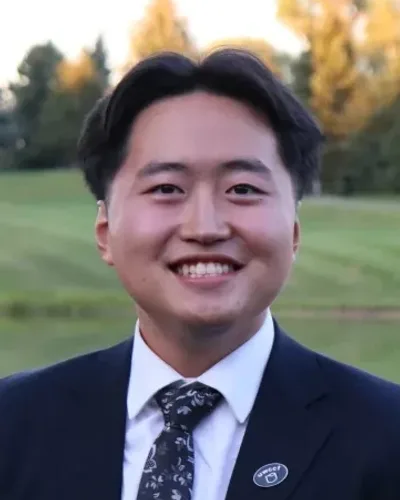
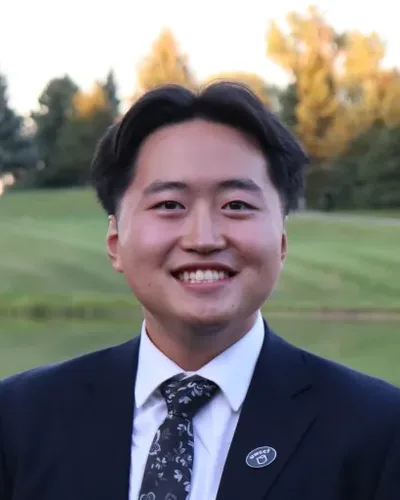
polish website

diff --git a/src/content/projects.ts b/src/content/projects.ts
@@ -1,37 +1,49 @@
 type Project = {
     name: string;
+    // A short phrase for the page description, like "a Lethal Company mod".
+    label: string;
     status?: string;
     description: string;
     technologies: string;
     href: string;
+    thunderstoreHref?: string;
+    // srcInLightTheme replaces src while the site is in light mode.
+    image: { src: string; alt: string; srcInLightTheme?: string };
 };
 
-export const projectsIntroduction = "Some things I’ve built.";
+export const projectsIntroduction = "What I’ve built.";
+
+// Search results cut descriptions off around 155 characters, so only the first three projects are named.
+export function projectsDescription(list: { label: string }[]): string {
+    const labels = list.slice(0, 3).map((project) => project.label);
+    const joined = labels.length < 3 ? labels.join(" and ") : `${labels.slice(0, -1).join(", ")}, and ${labels.at(-1)}`;
+    return `What I’ve built: ${joined}.`;
+}
 
 export const projects: Project[] = [
     {
         name: "LLM Inference Optimization Lab",
-        description: "I built a GPU model-serving setup and an asynchronous benchmarking framework to study how serving decisions affect latency and throughput. I experiment with concurrency, scheduling token budgets, and prefix-cache reuse, and read the results through server metrics and GPU profiling.",
-        technologies: "Python, vLLM, Modal, PyTorch Profiler, Prometheus",
+        label: "LLM inference benchmarks",
+        description: "I built a GPU model-serving setup and an asynchronous benchmarking framework to study how configuration choices affect latency and throughput. I experiment with concurrency, token budgets, and KV cache reuse, and analyze the results with server metrics and GPU profiling.",
+        technologies: "Python, vLLM, Modal, Prometheus, PyTorch Profiler",
         href: "https://github.com/malcolmshi123/llm-inference-optimization-lab",
-    },
-    {
-        name: "TFTeacher",
-        status: "in progress",
-        description: "I’m building a web app that reviews finished Teamfight Tactics games round by round. It finds the few decisions that cost you placements, like a loss streak held too long or gold you never spent, and points each one to the round it came from.",
-        technologies: "TypeScript, Next.js, Tailwind CSS, Claude API",
-        href: "https://github.com/malcolmshi123/tfteacher",
+        image: { src: "/projects/llm-inference-optimization-lab.webp", alt: "System architecture diagram: a Python benchmark client streams requests from a vLLM server on Modal GPUs, and the results and Prometheus metrics feed offline analysis" },
     },
     {
         name: "GojoBracken",
-        description: "I made a cosmetic mod for Lethal Company that replaces the Bracken with Gojo Satoru. When the Bracken turns aggressive, Gojo plays a Japanese voice line over looping music, and as it gets angrier, the music gets louder and his aura grows stronger.",
+        label: "a Lethal Company mod",
+        description: "I made a cosmetic mod for Lethal Company that replaces the Bracken with Gojo Satoru. When the Bracken enters aggro, Gojo plays a Japanese voice line over looping music. As the Bracken gets angrier, the music gets louder and Gojo’s aura grows stronger.",
         technologies: "C#, Unity, Blender",
         href: "https://github.com/malcolmshi123/GojoBracken",
+        thunderstoreHref: "https://thunderstore.io/c/lethal-company/p/FreakyFriday/GojoBracken",
+        image: { src: "/projects/gojobracken.webp", alt: "Gojo standing in the Lethal Company ship, surrounded by a blue aura" },
     },
     {
         name: "Personal Website",
-        description: "I designed and built this site to bring my faith, engineering work, writing, and photos together in one place. It’s a static Next.js site with light and dark themes and a homepage that fits on one screen.",
-        technologies: "TypeScript, Next.js, Formspree",
+        label: "this site",
+        description: "I designed and built this site to bring my faith, work, writing, and photos together in one place. It’s a static Next.js site on Vercel that pulls my latest Medium posts every day and sends messages through Formspree.",
+        technologies: "TypeScript, Next.js, Vercel, Formspree",
         href: "https://github.com/malcolmshi123/personal-website",
+        image: { src: "/projects/personal-website.webp", srcInLightTheme: "/projects/personal-website-dark.webp", alt: "The landing page of this website" },
     },
 ];

diff --git a/src/app/projects/page.tsx b/src/app/projects/page.tsx
@@ -1,11 +1,19 @@
 import { createPageMetadata } from "@/lib/site-metadata";
-import { projects, projectsIntroduction } from "@/content/projects";
+import LinkIcon from "@/components/link-icon";
+import ThemeToggle from "@/components/theme-toggle";
+import { projects, projectsDescription, projectsIntroduction } from "@/content/projects";
 
 export const metadata = createPageMetadata(
     "Projects",
-    "Things I’ve built: LLM inference benchmarks, a Teamfight Tactics review app, a Lethal Company mod, and this site.",
+    projectsDescription(projects),
     "/projects/",
 );
+
+type ProjectImageProps = { className: string; src: string; alt: string; loading: "lazy" | "eager" };
+
+function ProjectImage({ className, src, alt, loading }: ProjectImageProps) {
+    return <img className={className} src={src} alt={alt} width={1280} height={720} loading={loading} decoding="async" />;
+}
 
 export default function Projects() {
     return (
@@ -16,13 +24,43 @@ export default function Projects() {
                 <ul className="work-list project-list">
                     {projects.map((project) => (
                         <li className="work-entry" key={project.href}>
-                            <h2 className="project-name">
-                                {project.name}
-                                {project.status && <span className="project-status">{project.status}</span>}
-                            </h2>
+                            <div className="project-heading">
+                                <h2 className="project-name">
+                                    {project.name}
+                                    {project.status && <span className="project-status">{project.status}</span>}
+                                </h2>
+                                {/* Lets visitors flip the theme right here and watch the screenshot change. */}
+                                {project.image.srcInLightTheme && <ThemeToggle hint={false} />}
+                            </div>
+                            {project.image.srcInLightTheme && (
+                                <ProjectImage
+                                    className="project-image shows-in-light-theme"
+                                    src={project.image.srcInLightTheme}
+                                    alt={project.image.alt}
+                                    loading="eager"
+                                />
+                            )}
+                            {/* A themed pair loads up front so switching themes never shows an empty frame. */}
+                            <ProjectImage
+                                className={project.image.srcInLightTheme ? "project-image shows-in-dark-theme" : "project-image"}
+                                src={project.image.src}
+                                alt={project.image.alt}
+                                loading={project.image.srcInLightTheme ? "eager" : "lazy"}
+                            />
                             <p>{project.description}</p>
                             <p className="work-meta">{project.technologies}</p>
-                            <a href={project.href} aria-label={`View ${project.name} on GitHub`}>View on GitHub</a>
+                            <div className="project-links">
+                                {project.thunderstoreHref && (
+                                    <a href={project.thunderstoreHref} aria-label={`${project.name} on Thunderstore`}>
+                                        <LinkIcon name="thunderstore" />
+                                        Thunderstore
+                                    </a>
+                                )}
+                                <a href={project.href} aria-label={`${project.name} on GitHub`}>
+                                    <LinkIcon name="github" />
+                                    GitHub
+                                </a>
+                            </div>
                         </li>
                     ))}
                 </ul>

diff --git a/src/components/theme-toggle.tsx b/src/components/theme-toggle.tsx
@@ -1,6 +1,6 @@
 "use client";
 
-import { useEffect, useState } from "react";
+import { useEffect, useId, useState } from "react";
 import { nextTheme, readStoredTheme, saveThemeChoice, shouldFollowSystem, syncFaviconLinks, type Theme } from "@/lib/theme";
 
 const darkQuery = "(prefers-color-scheme: dark)";
@@ -29,8 +29,21 @@ function currentTheme(): Theme {
     return document.documentElement.dataset.theme === "dark" ? "dark" : "light";
 }
 
-export default function ThemeToggle() {
+// The page can show more than one toggle; each tells the others when the theme changes.
+const themeChangeEvent = "theme-toggle-change";
+
+export default function ThemeToggle({ hint = true }: { hint?: boolean }) {
     const [theme, setTheme] = useState<Theme | null>(null);
+    const maskId = `moon-cut-${useId().replace(/[^a-zA-Z0-9]/g, "")}`;
+
+    useEffect(() => {
+        function followOtherToggle(event: Event) {
+            setTheme((event as CustomEvent<Theme>).detail);
+        }
+
+        window.addEventListener(themeChangeEvent, followOtherToggle);
+        return () => window.removeEventListener(themeChangeEvent, followOtherToggle);
+    }, []);
 
     useEffect(() => {
         const storage = getLocalStorage();
@@ -89,6 +102,7 @@ export default function ThemeToggle() {
         }
 
         setTheme(chosen);
+        window.dispatchEvent(new CustomEvent<Theme>(themeChangeEvent, { detail: chosen }));
     }
 
     let label = "Switch theme";
@@ -98,10 +112,10 @@ export default function ThemeToggle() {
 
     return (
         <button className="theme-toggle" type="button" aria-label={label} onClick={switchTheme}>
-            <span className="theme-toggle-hint" aria-hidden="true">click me</span>
+            {hint && <span className="theme-toggle-hint" aria-hidden="true">click me</span>}
             <svg className="theme-toggle-icon" viewBox="0 0 32 32" width="32" height="32" aria-hidden="true" focusable="false">
                 <defs>
-                    <mask id="moon-cut">
+                    <mask id={maskId}>
                         <rect width="32" height="32" fill="white" />
                         <circle cx="20" cy="11" r="7" fill="black" />
                     </mask>
@@ -110,7 +124,7 @@ export default function ThemeToggle() {
                     <circle cx="16" cy="16" r="8" />
                 </g>
                 <g className="theme-toggle-moon">
-                    <circle cx="15" cy="15" r="8" mask="url(#moon-cut)" />
+                    <circle cx="15" cy="15" r="8" mask={`url(#${maskId})`} />
                     <circle className="theme-toggle-star" cx="26" cy="6" r="1" />
                     <circle className="theme-toggle-star" cx="27" cy="20" r="0.8" />
                     <circle className="theme-toggle-star" cx="6" cy="7" r="0.9" />

diff --git a/src/components/link-icon.tsx b/src/components/link-icon.tsx
@@ -1,4 +1,4 @@
-export type LinkIconName = "linkedin" | "github" | "resume";
+export type LinkIconName = "linkedin" | "github" | "thunderstore" | "resume";
 
 type IconShape = {
     viewBox: string;
@@ -6,7 +6,7 @@ type IconShape = {
 };
 
 // Solid shapes stay crisp at small sizes. Each viewBox is trimmed to its artwork so spacing is even.
-// LinkedIn and GitHub marks are from Simple Icons (CC0).
+// LinkedIn, GitHub, and Thunderstore marks are from Simple Icons (CC0).
 const iconShapes: Record<LinkIconName, IconShape> = {
     linkedin: {
         viewBox: "0 0 24 24",
@@ -15,6 +15,10 @@ const iconShapes: Record<LinkIconName, IconShape> = {
     github: {
         viewBox: "0 0 24 24",
         path: "M12 .297c-6.63 0-12 5.373-12 12 0 5.303 3.438 9.8 8.205 11.385.6.113.82-.258.82-.577 0-.285-.01-1.04-.015-2.04-3.338.724-4.042-1.61-4.042-1.61C4.422 18.07 3.633 17.7 3.633 17.7c-1.087-.744.084-.729.084-.729 1.205.084 1.838 1.236 1.838 1.236 1.07 1.835 2.809 1.305 3.495.998.108-.776.417-1.305.76-1.605-2.665-.3-5.466-1.332-5.466-5.93 0-1.31.465-2.38 1.235-3.22-.135-.303-.54-1.523.105-3.176 0 0 1.005-.322 3.3 1.23.96-.267 1.98-.399 3-.405 1.02.006 2.04.138 3 .405 2.28-1.552 3.285-1.23 3.285-1.23.645 1.653.24 2.873.12 3.176.765.84 1.23 1.91 1.23 3.22 0 4.61-2.805 5.625-5.475 5.92.42.36.81 1.096.81 2.22 0 1.606-.015 2.896-.015 3.286 0 .315.21.69.825.57C20.565 22.092 24 17.592 24 12.297c0-6.627-5.373-12-12-12",
+    },
+    thunderstore: {
+        viewBox: "0 0 24 24",
+        path: "m.322 13.174 4.706 8.192L7.2 16.855 4.824 12.72a1.416 1.416 0 0 1 0-1.444l2.965-5.16c.265-.46.718-.723 1.245-.723h1.595l-3.086 6.953h3.812L6.171 22.403 16.583 9.914h-3.201l2.184-4.52h6.052L24 1.25H7.175c-.86 0-1.598.428-2.028 1.174l-4.825 8.4a2.306 2.306 0 0 0 0 2.35m7.213 9.576h9.29a2.29 2.29 0 0 0 2.03-1.176l4.825-8.4a2.317 2.317 0 0 0 0-2.35l-1.93-3.36h-4.763l2.19 3.813c.262.46.262.987 0 1.444l-2.964 5.162a1.41 1.41 0 0 1-1.248.723h-2.154l-1.497-.017z",
     },
     resume: {
         viewBox: "3.5 1 17 22",

diff --git a/src/app/globals.css b/src/app/globals.css
@@ -890,8 +890,37 @@ body:has(.home-ground) .site-footer .hill-wave {
     font-size: 16px;
 }
 
+.project-image {
+    display: block;
+    width: 100%;
+    height: auto;
+    aspect-ratio: 16 / 9;
+    margin: 0 0 20px;
+    border: 1px solid var(--rule);
+    border-radius: 14px;
+    object-fit: cover;
+    background: var(--field);
+    transition: border-color var(--theme-fade), background-color var(--theme-fade);
+}
+
+:root[data-theme="dark"] .shows-in-light-theme,
+:root:not([data-theme="dark"]) .shows-in-dark-theme {
+    display: none;
+}
+
+.project-heading {
+    display: flex;
+    align-items: center;
+    gap: 4px;
+    margin: 0 0 16px;
+}
+
+.project-heading .theme-toggle {
+    padding-left: 4px;
+}
+
 .prose .project-name {
-    margin: 0 0 6px;
+    margin: 0;
     font-size: clamp(22px, 2.2vw, 26px);
     letter-spacing: -0.015em;
     line-height: 1.25;
@@ -983,6 +1012,25 @@ body:has(.home-ground) .site-footer .hill-wave {
     align-items: center;
     gap: 8px;
     color: var(--brick);
+}
+
+.project-links {
+    display: flex;
+    flex-wrap: wrap;
+    gap: 8px 24px;
+    margin-bottom: 20px;
+}
+
+.project-links a {
+    display: inline-flex;
+    align-items: center;
+    gap: 8px;
+    color: var(--brick);
+    font-weight: 500;
+}
+
+.project-links .link-icon {
+    height: 16px;
 }
 
 .contact-links .link-icon,

diff --git a/src/app/photos/page.tsx b/src/app/photos/page.tsx
@@ -3,7 +3,7 @@ import { albums } from "@/content/photos";
 
 export const metadata = createPageMetadata(
     "Gallery",
-    "Some photos I’ve taken.",
+    "What I’ve tasted and seen.",
     "/photos/",
 );
 
@@ -11,7 +11,7 @@ export default function Gallery() {
     return (
         <div className="page-content photos-page">
             <h1>Gallery</h1>
-            <p className="introduction">Some photos I've taken.</p>
+            <p className="introduction">What I've tasted and seen.</p>
             <ul className="album-grid" aria-label="Photo albums">
                 {albums.map((album) => (
                     <li key={album.id}>

diff --git a/src/app/blog/page.tsx b/src/app/blog/page.tsx
@@ -12,7 +12,7 @@ export default function Blog() {
     return (
         <div className="page-content reading-page">
             <h1>Blog</h1>
-            <p className="introduction">Some blogs I've written.</p>
+            <p className="introduction">What I've written.</p>
             <ul className="article-list" aria-label="Articles">
                 {articles.map((article) => (
                     <li key={article.href}>
